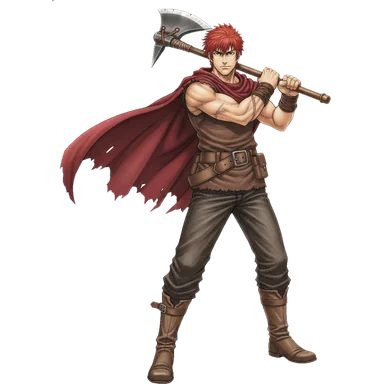
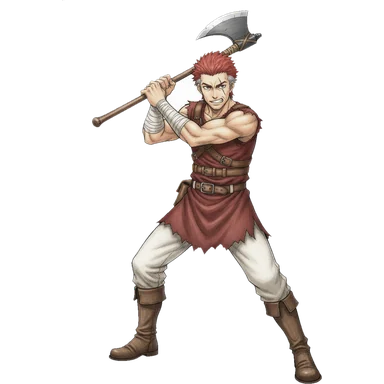
ムキを作り直し（寡黙な古兵、表情と構えの差分）
Claude-Session: https://claude.ai/code/session_019xnD9zf1824211ZEpgvXov

Changed region(s): [[0.1562, 0.0, 0.875, 1.0]]

diff --git a/habit-check/public/sw.js b/habit-check/public/sw.js
@@ -1,5 +1,5 @@
 // 画面ファイルだけをキャッシュする（/api は常にネットワーク）
-const CACHE = "habit-check-v13";
+const CACHE = "habit-check-v14";
 const SHELL = ["./", "index.html", "app.js", "aibou.js", "aibou-sprites.js", "art-index.js", "theater.js", "theater-gl.js", "theater-script.js", "theater-speakers.js", "theater-stage.js", "style.css", "manifest.webmanifest", "icons/icon-192.png", "img/walnut.jpg", "img/oak.jpg"];
 
 self.addEventListener("install", (e) => {
